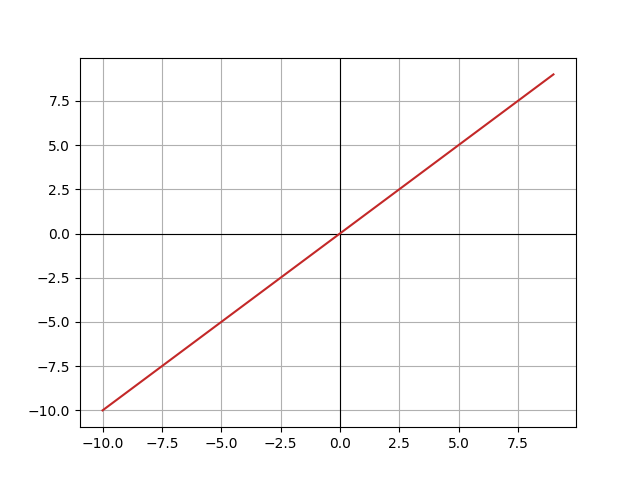
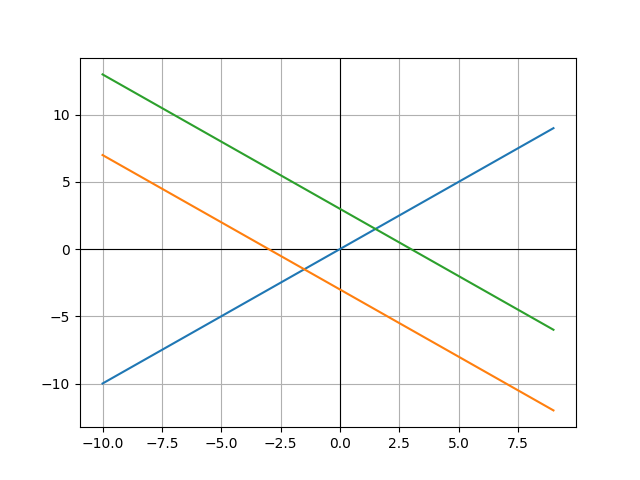
code optimization + add poi_x/poi_y for graf 1

diff --git a/templates/base.html b/templates/base.html
@@ -6,35 +6,22 @@
     <link rel="stylesheet" href="static/css/styles.css">
 </head>
 <body>
-
     <p><img src="static/graf_picture.png" alt="хз лол"></p>
     <form action="/cr_graf1" method="post">
-        <input type="text" id="name" name="tbut1" placeholder="{{gr_1}}" style="margin:4px 0px 4px; position: absolute; top: 516px; left: 20px;"/>
-        <input type="color" id="namee" name="tbut1_color" class="color1" value="{{col1}}" style="margin:4px 0px 4px; position: absolute; top: 516px; left: 260px;"/>
+        <input type="text" id="1" name="tbut1" placeholder="{{gr_1}}" style="margin:4px 0px 4px; position: absolute; top: 516px; left: 20px;"/>
     </form>
-    <form action="/PLUS_2" method="post">
-    <button id="PlBtn2" name="PlusBtn2" type="submit" style="position: absolute; top: 520px; left: 200px;">+</button>
-    </form>
-{% if g_num == 2 or g_num == 3 %}
     <form action="/cr_graf2" method="post">
-    <input type="text" id="name1" name="tbut2" placeholder="{{gr_2}}" style="margin:4px 0px 4px; position: absolute; top: 556px; left: 20px;"/>
+        <input type="text" id="2" name="tbut2" placeholder="{{gr_2}}" style="margin:4px 0px 4px; position: absolute; top: 556px; left: 20px;"/>
     </form>
-    <form action="/PLUS_3" method="post">
-    <button id="PlBtn3" name="PlusBtn3" type="submit" style="position: absolute; top: 560px; left: 200px;">+</button>
+    <form action="/cr_graf3" method="post">
+        <input type="text" id="3" name="tbut3" placeholder="{{gr_3}}" style="margin:4px 0px 4px; position: absolute; top: 596px; left: 20px;"/>
     </form>
-    <form action="/MINUS_2" method="post">
-    <button id="MnBtn2" name="MinusBtn2" type="submit" style="position: absolute; top: 560px; left: 228px;">-</button>
+    <form action="/info_1" method="post">
+        <button id="4" name="infobut1" type="submit" style="position: absolute; top: 516px; left: 220px;">i</button>
     </form>
-    {% if g_num == 3 %}
-        <form action="/cr_graf3" method="post">
-        <input type="text" id="name3" name="tbut3" style="margin:4px 0px 4px; position: absolute; top: 596px; left: 20px;"/>
-        </form>
-    <form action="/MINUS_3" method="post">
-    <button id="MnBtn3" name="MinusBtn3" type="submit" style="position: absolute; top: 600px; left: 200px;">-</button>
-    </form>
-    {% endif %}
-{% endif %}
-<!--<p style="margin:4px 0px 4px; position: absolute; top: 500px; left: 20px;">{{text}}</p>-->
+    {% autoescape false %}
+     <h3 style="visibility: {{vis_1}}; position: absolute; top: 496px; left: 270px;">{{info_1}}</h3>
+    {% endautoescape %}
 
 </body>
 </html>

diff --git a/main.py b/main.py
@@ -1,29 +1,30 @@
 import matplotlib
 import numpy as np
 from flask import *
+from sympy import *
 import matplotlib.pyplot as plt
 import os
 
 matplotlib.use('Agg')
 
-text = None
-grafs = {}
+vis_1 = "hidden"
+
+info_1 = ""
+
+grafs = {1: "", 2: "", 3: ""}
 app = Flask(__name__)
 
-graf_num = 1
-g_colors = ["#47cfed", "#fcb708", "#12c745"]
 
 def create_graf():
     plt.clf()
     plt.axhline(0, color='black', linewidth=0.8)
     plt.axvline(0, color='black', linewidth=0.8)
     plt.grid()
-
-    g_colors[0] = request.form["tbut1_color"]
     global grafs
     for i in range(len(grafs)):
-        x_y = from_text_to_graf_arr(grafs[i + 1], -10, 10)
-        plt.plot(x_y[0], x_y[1], color=g_colors[i])
+        if grafs[i + 1] != "":
+            x_y = from_text_to_graf_arr(grafs[i + 1], -10, 10)
+            plt.plot(x_y[0], x_y[1])
     try:
         os.remove("static/graf_picture.png")
         plt.savefig("static/graf_picture")
@@ -34,22 +35,7 @@ def create_graf():
 @app.route('/')
 @app.route('/index')
 def index():
-    return render_template('base.html', text=text)
-
-    # @app.route("/t", methods=["POST"])
-    # def show_text():
-    #     global text, grafs
-    #     text = request.form["tbut"]
-    # x_lst, y_lst = [i for i in range(-100, 100)], []
-    # for i in range(-100, 100):
-    #     t = text.replace("x", f"({str(i)})")
-    #     y = eval(t)
-    #     y_lst.append(y)
-    #
-    #
-    # # print(x_lst, y_lst)
-    # create_graf(x_lst, y_lst)
-    # return render_template('base.html', text=text)
+    return render_template('base.html', vis_1=vis_1)
 
 
 def from_text_to_graf_arr(text, border_neg, border_pos):
@@ -63,68 +49,86 @@ def from_text_to_graf_arr(text, border_neg, border_pos):
     return x_lst, y_lst
 
 
-@app.route("/cr_graf1", methods=["POST"])
-def create_graf_1():
-    global grafs
-    grafs[1] = request.form["tbut1"]
-    print(grafs)
-    # for i in range(len(grafs)):
-    # x_l, y_l = from_text_to_graf_arr(grafs[1], -100, 100)
+@app.route('/cr_graf1', methods=["post", "get"])
+def cr_gr1():
+    a = request.form["tbut1"]
+    grafs[1] = a
     create_graf()
+    return render_template('base.html', gr_1=grafs[1], gr_2=grafs[2], gr_3=grafs[3], vis_1=vis_1)
+
+
+@app.route('/cr_graf2', methods=["post", "get"])
+def cr_gr2():
+    b = request.form["tbut2"]
+    grafs[2] = b
+    create_graf()
+    return render_template('base.html', gr_1=grafs[1], gr_2=grafs[2], gr_3=grafs[3], vis_1=vis_1)
+
+
+@app.route('/cr_graf3', methods=["post", "get"])
+def cr_gr3():
+    c = request.form["tbut3"]
+    grafs[3] = c
+    create_graf()
+    return render_template('base.html', gr_1=grafs[1], gr_2=grafs[2], gr_3=grafs[3], vis_1=vis_1)
+
+
+@app.route("/info_1", methods=["post", "get"])
+def info_1():
+    global vis_1, info_1
+    if vis_1 == "hidden":
+        vis_1 = "visibility"
+    else:
+        vis_1 = "hidden"
+    print(grafs)
+    poi_1_2 = []
+    poi_1_3 = []
     try:
-        return render_template('base.html', gr_1=grafs[1], gr_2=grafs[2], g_num=graf_num, col1=g_colors[0])
+        for i in range(len(find_poi_x(grafs[1], grafs[2]))):
+            poi_1_2.append((find_poi_x(grafs[1], grafs[2])[i], find_poi_y(find_poi_x(grafs[1], grafs[2]), grafs[1])[i]))
     except:
-        return render_template('base.html', gr_1=grafs[1], g_num=graf_num, col1=g_colors[0])
+        pass
+    try:
+        for ii in range(len(find_poi_x(grafs[1], grafs[3]))):
+            poi_1_3.append((find_poi_x(grafs[1], grafs[3])[ii], find_poi_y(find_poi_x(grafs[1], grafs[3]), grafs[1])[ii]))
+    except:
+        pass
+    print(poi_1_2)
+    print(poi_1_3)
+    info_1 = 'y1 ∩ y2 = '
+    for j in range(len(poi_1_2)):
+        info_1 = info_1 + str(poi_1_2[j])
+        if j + 1 <= len(poi_1_2) - 1:
+            info_1 = info_1 + ";  "
+    info_1 = info_1 + "\n" + 'y1 ∩ y3 = '
+
+    for jj in range(len(poi_1_3)):
+        info_1 = info_1 + str(poi_1_3[jj])
+        if jj + 1 <= len(poi_1_3) - 1:
+            info_1 = info_1 + ";  "
+    print(info_1)
+    info_1 = info_1.replace('\n', '<br>')
+    return render_template('base.html', gr_1=grafs[1], gr_2=grafs[2], gr_3=grafs[3], vis_1=vis_1, info_1=info_1)
 
 
-@app.route("/cr_graf2", methods=["POST"])
-def create_graf_2():
-    global grafs
-    grafs[2] = request.form["tbut2"]
-    print(grafs)
-    create_graf()
-    return render_template('base.html', gr_1=grafs[1], gr_2=grafs[2], g_num=graf_num, col1=g_colors[0])
+def find_poi_x(eq1, eq2):
+    if eq1 != '' and eq2 != '':
+        x = symbols("x")
+        equation = sympify("Eq(" + str(eq1) + "," + str(eq2) + ")")
+        solution = solve(equation, x)
+        return solution
+    return None
 
 
-@app.route("/cr_graf3", methods=["POST"])
-def create_graf_3():
-    global grafs
-    grafs[3] = request.form["tbut3"]
-    print(grafs)
-    create_graf()
-    return render_template('base.html', gr_1=grafs[1], gr_2=grafs[2], gr_3=grafs[3], g_num=graf_num, col1=g_colors[0])
-
-
-@app.route("/PLUS_2", methods=["POST"])
-def plus_2():
-    global graf_num
-    if graf_num == 1:
-        graf_num += 1
-    return render_template('base.html', gr_1=grafs[1], g_num=graf_num, col1=g_colors[0])
-
-
-@app.route("/PLUS_3", methods=["POST"])
-def plus_3():
-    global graf_num
-    if graf_num == 2:
-        graf_num += 1
-    return render_template('base.html', gr_1=grafs[1], gr_2=grafs[2], g_num=graf_num, col1=g_colors[0])
-
-
-@app.route("/MINUS_2", methods=["POST"])
-def minus_2():
-    global graf_num
-    if graf_num == 2:
-        graf_num -= 1
-    return render_template('base.html', gr_1=grafs[1], g_num=graf_num, col1=g_colors[0])
-
-
-@app.route("/MINUS_3", methods=["POST"])
-def minus_3():
-    global graf_num
-    if graf_num == 3:
-        graf_num -= 1
-    return render_template('base.html', gr_1=grafs[1], gr_2=grafs[2], g_num=graf_num, col1=g_colors[0])
+def find_poi_y(points, eq1):
+    y_points = []
+    for i in range(len(points)):
+        x, y = symbols('x y')
+        x_eq = eq1.replace("x", f"({points[i]})")
+        equation = sympify("Eq(" + str(y) + "," + x_eq + ")")
+        solution = solve(equation, y)
+        y_points.append(*solution)
+    return y_points
 
 
 if __name__ == '__main__':
